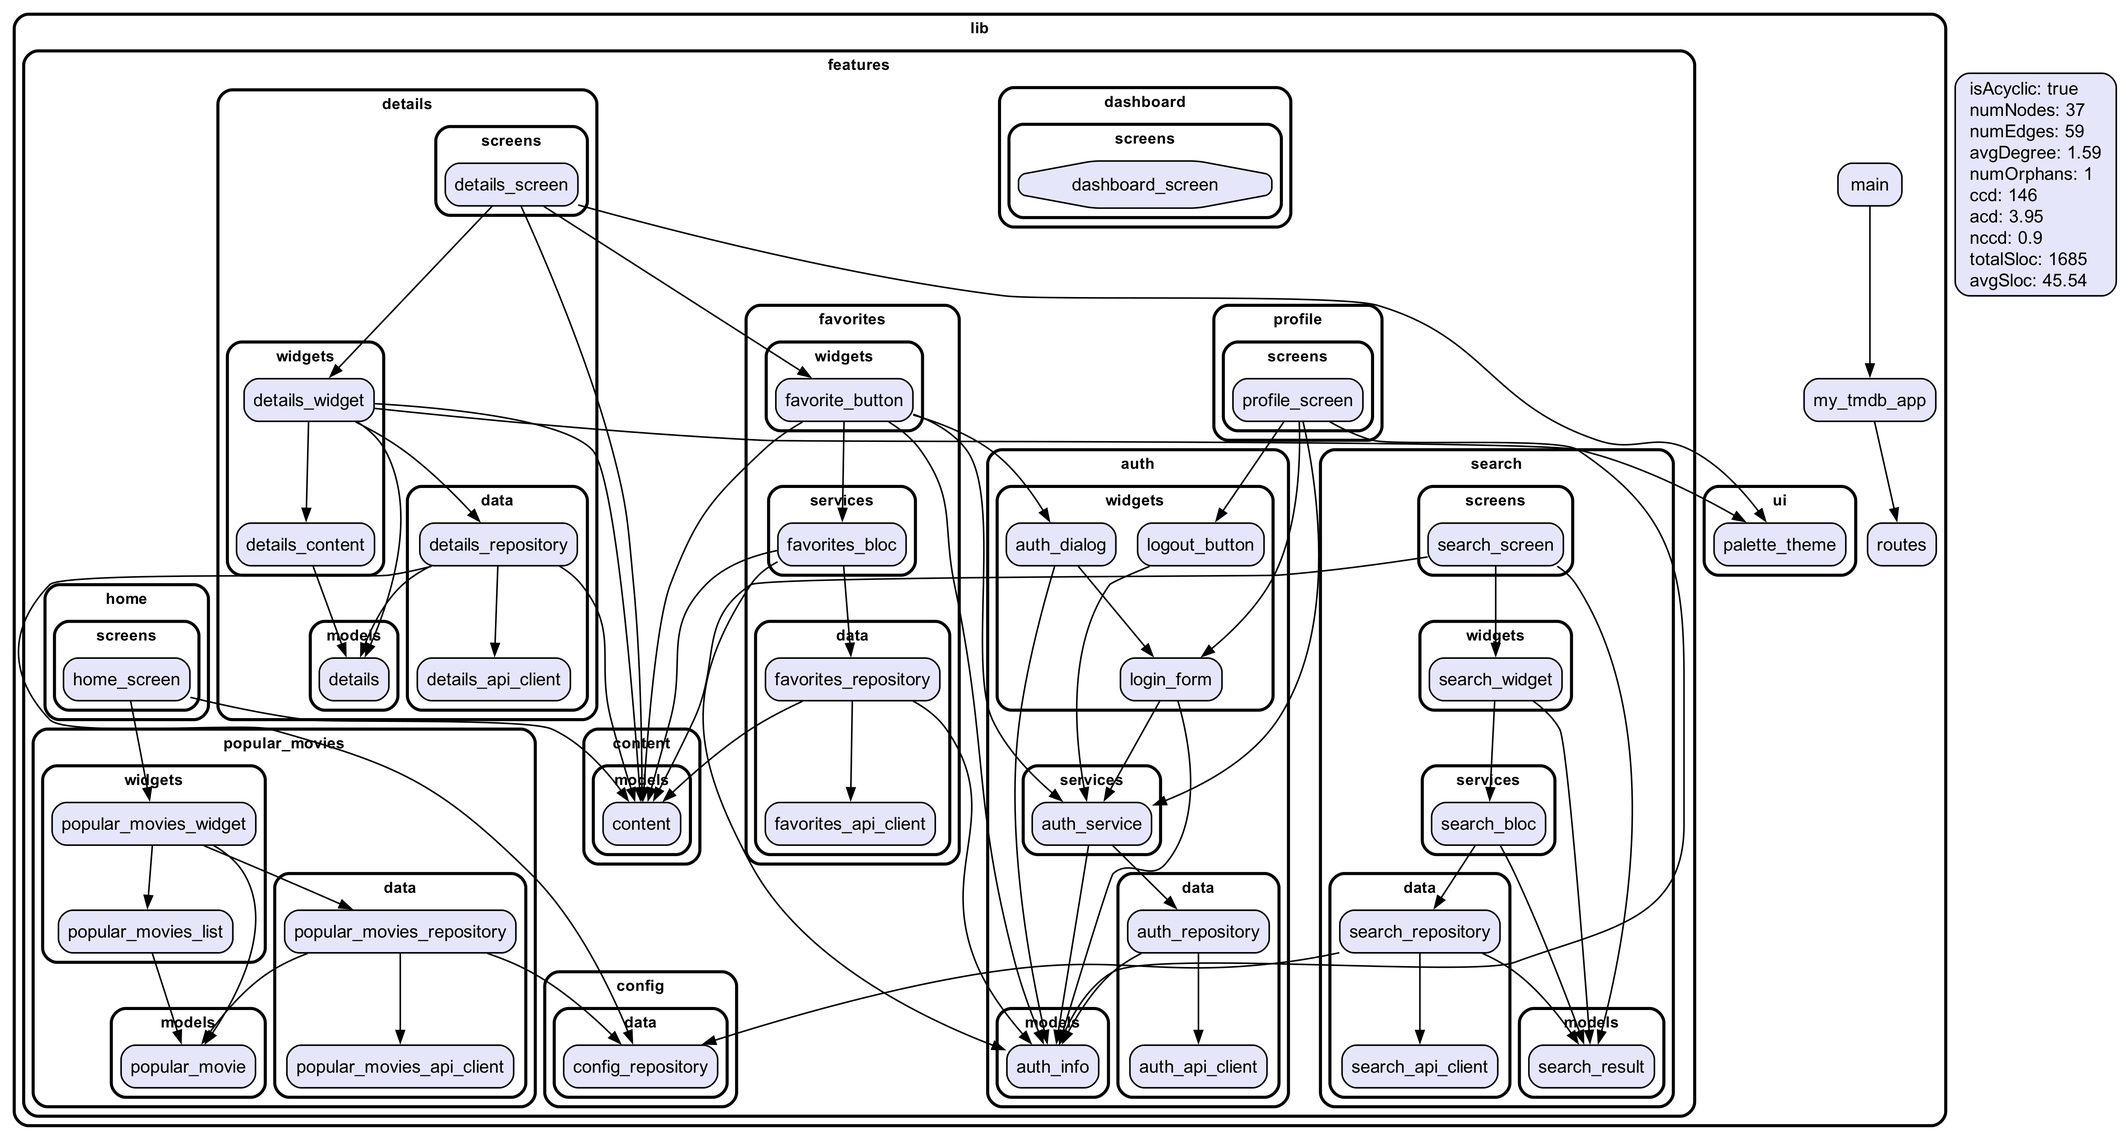
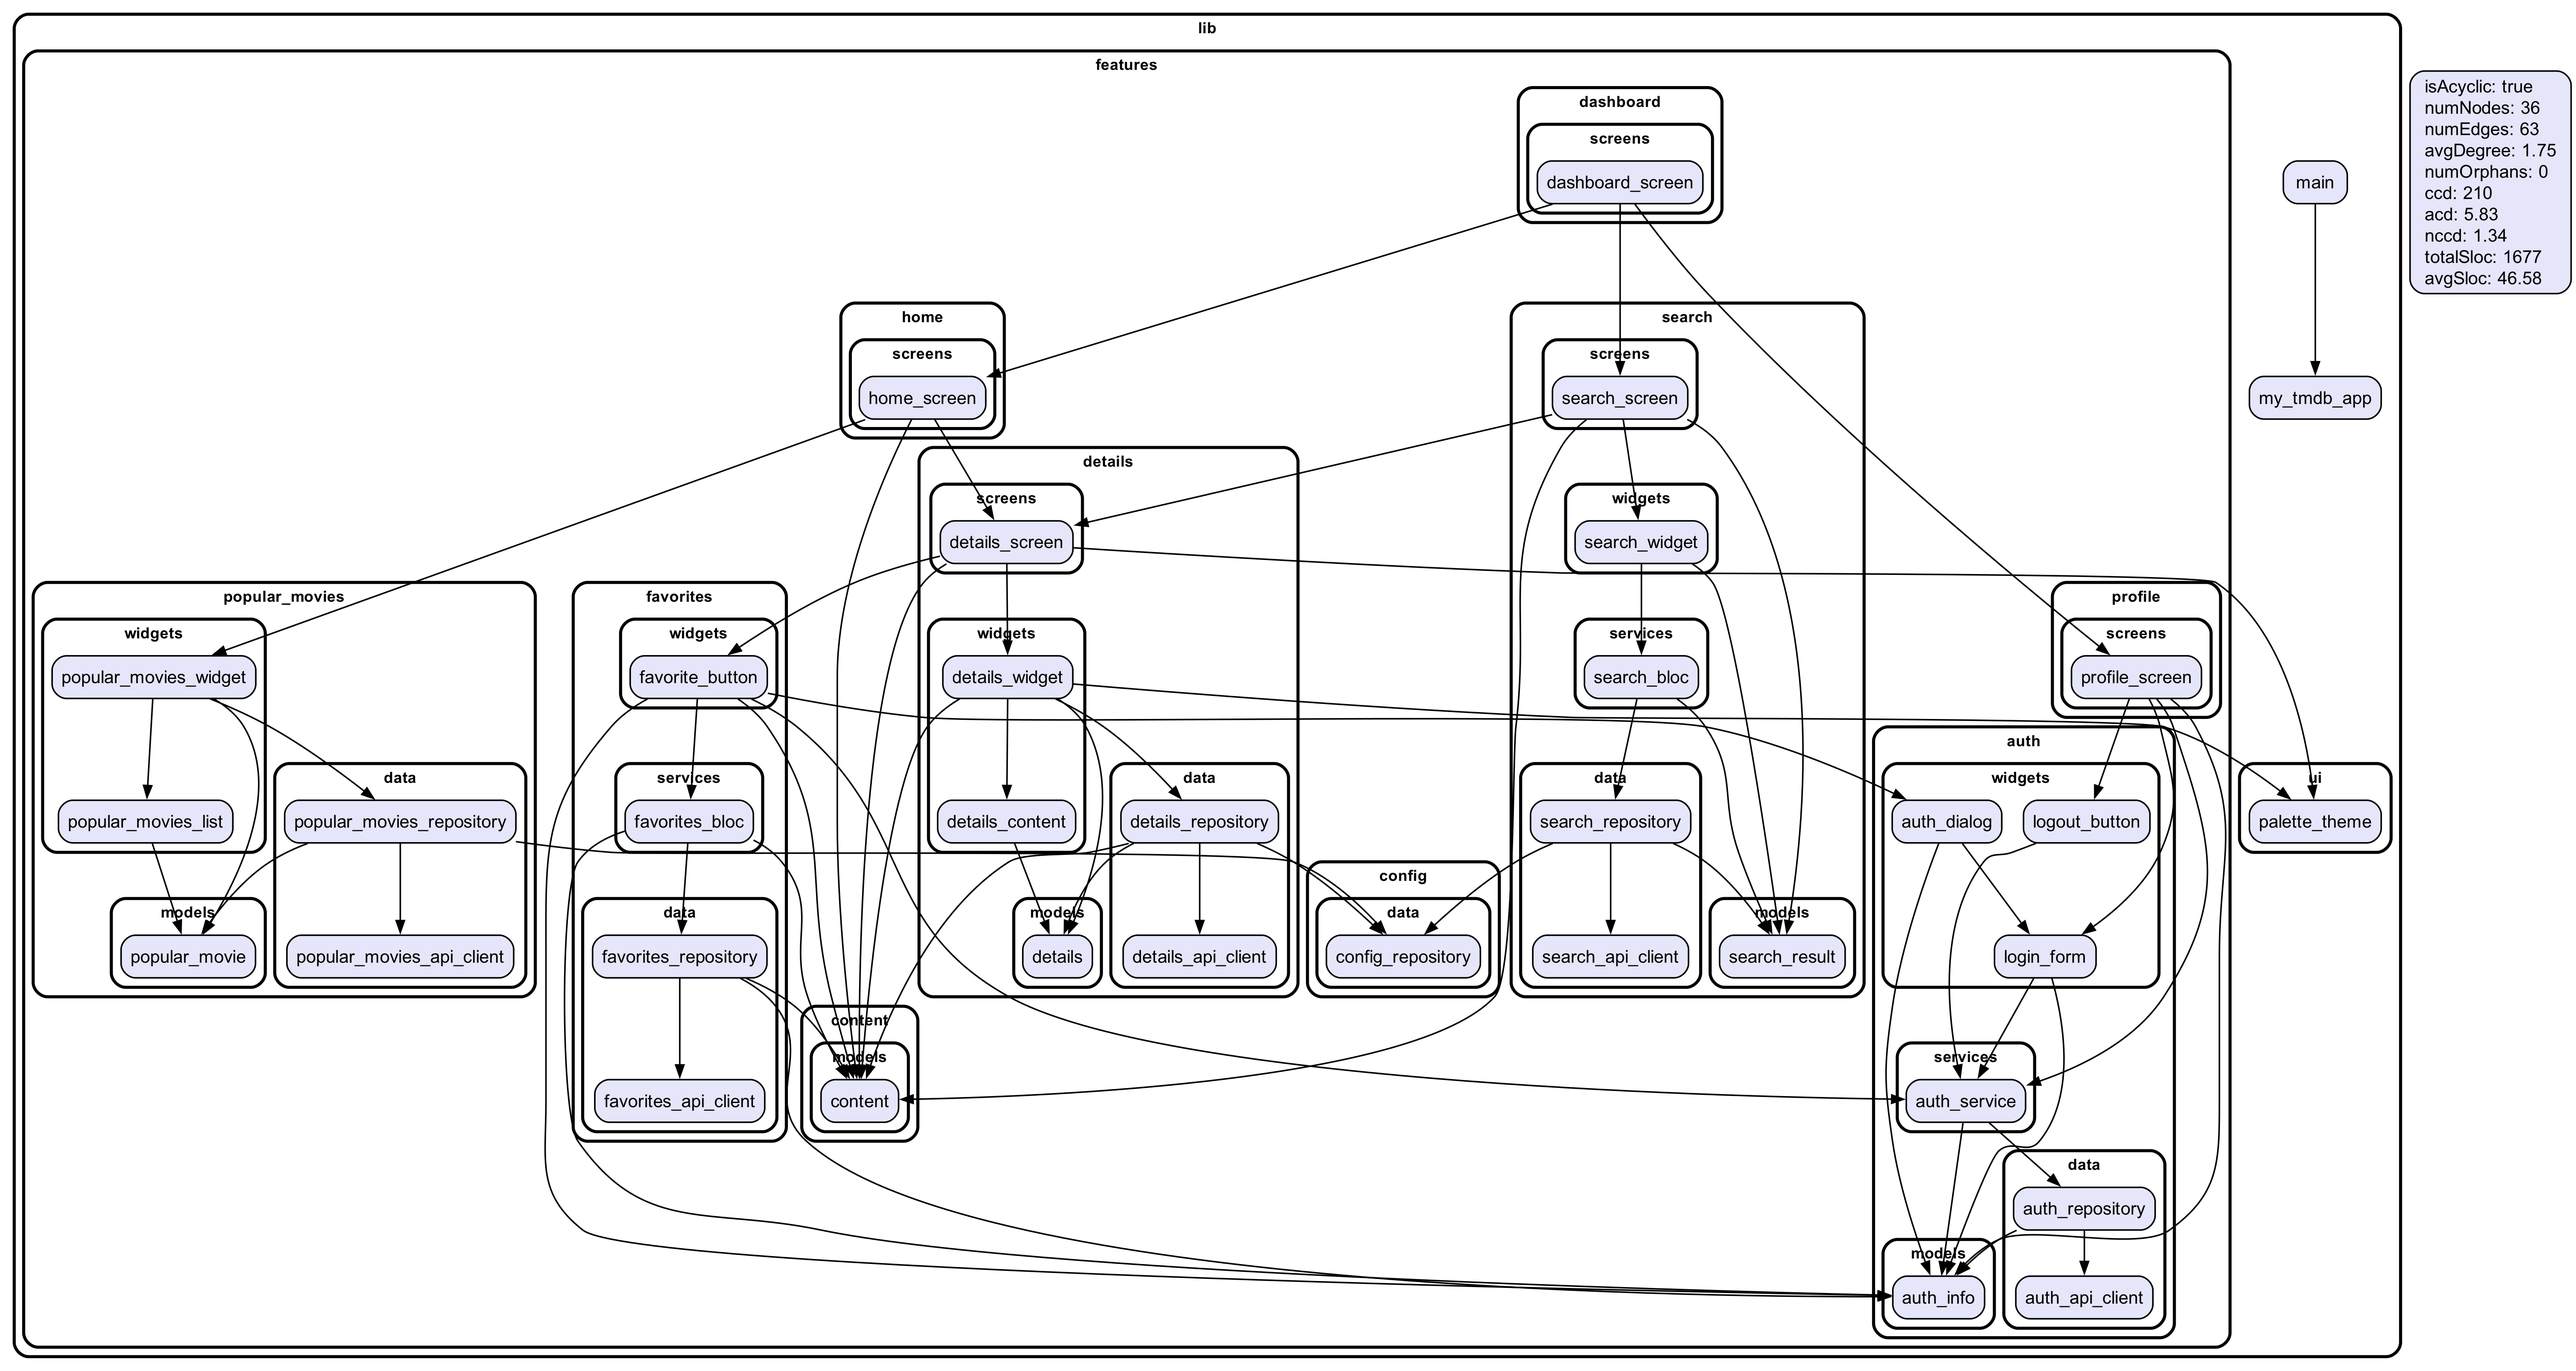
refactor: update screen referencing

Changed region(s): [[0.0, 0.0, 0.9347, 0.9929], [0.8412, 0.031, 1.0, 0.3723]]

diff --git a/lib/features/dashboard/screens/dashboard_screen.dart b/lib/features/dashboard/screens/dashboard_screen.dart
@@ -2,17 +2,22 @@ import 'package:auto_route/auto_route.dart';
 import 'package:flutter/material.dart';
 
 import '../../../routes.gr.dart';
+import '../../home/screens/home_screen.dart';
+import '../../profile/screens/profile_screen.dart';
+import '../../search/screens/search_screen.dart';
 
 @RoutePage()
 class DashboardScreen extends StatelessWidget {
   const DashboardScreen({super.key});
 
+  static const route = DashboardRoute.new;
+
   @override
   Widget build(BuildContext context) => AutoTabsRouter(
-        routes: const [
-          HomeRoute(),
-          SearchRoute(),
-          ProfileRoute(),
+        routes: [
+          HomeScreen.route(),
+          SearchScreen.route(),
+          ProfileScreen.route(),
         ],
         builder: (context, child) {
           final tabsRouter = AutoTabsRouter.of(context);

diff --git a/lib/features/search/screens/search_screen.dart b/lib/features/search/screens/search_screen.dart
@@ -3,6 +3,7 @@ import 'package:flutter/material.dart';
 
 import '../../../routes.gr.dart';
 import '../../content/models/content.dart';
+import '../../details/screens/details_screen.dart';
 import '../models/search_result.dart';
 import '../widgets/search_widget.dart';
 
@@ -10,12 +11,14 @@ import '../widgets/search_widget.dart';
 class SearchScreen extends StatelessWidget {
   const SearchScreen({super.key});
 
+  static const route = SearchRoute.new;
+
   @override
   Widget build(BuildContext context) => Scaffold(
         appBar: AppBar(title: const Text('Search')),
         body: SearchWidget(
           onItemPressed: (item) => context.router.navigate(
-            DetailsRoute(
+            DetailsScreen.route(
               id: ContentId(
                 value: item.id,
                 type: switch (item) {

diff --git a/lib/features/home/screens/home_screen.dart b/lib/features/home/screens/home_screen.dart
@@ -3,18 +3,21 @@ import 'package:flutter/material.dart';
 
 import '../../../routes.gr.dart';
 import '../../content/models/content.dart';
+import '../../details/screens/details_screen.dart';
 import '../../popular_movies/widgets/popular_movies_widget.dart';
 
 @RoutePage()
 class HomeScreen extends StatelessWidget {
   const HomeScreen({super.key});
 
+  static const route = HomeRoute.new;
+
   @override
   Widget build(BuildContext context) => Scaffold(
         appBar: AppBar(title: const Text('MyTMDB')),
         body: PopularMoviesWidget(
           onItemPressed: (movie) => context.router.navigate(
-            DetailsRoute(
+            DetailsScreen.route(
               id: ContentId(type: ContentType.movie, value: movie.id),
               initialTitle: movie.title,
             ),

diff --git a/lib/features/profile/screens/profile_screen.dart b/lib/features/profile/screens/profile_screen.dart
@@ -2,6 +2,7 @@ import 'package:auto_route/auto_route.dart';
 import 'package:flutter/material.dart';
 
 import '../../../di.dart';
+import '../../../routes.gr.dart';
 import '../../auth/models/auth_info.dart';
 import '../../auth/services/auth_service.dart';
 import '../../auth/widgets/login_form.dart';
@@ -10,6 +11,8 @@ import '../../auth/widgets/logout_button.dart';
 @RoutePage()
 class ProfileScreen extends StatelessWidget {
   const ProfileScreen({super.key});
+
+  static const route = ProfileRoute.new;
 
   @override
   Widget build(BuildContext context) => Scaffold(

diff --git a/lib/features/details/screens/details_screen.dart b/lib/features/details/screens/details_screen.dart
@@ -1,6 +1,7 @@
 import 'package:auto_route/auto_route.dart';
 import 'package:flutter/material.dart';
 
+import '../../../routes.gr.dart';
 import '../../../ui/palette_theme.dart';
 import '../../content/models/content.dart';
 import '../../favorites/widgets/favorite_button.dart';
@@ -13,6 +14,8 @@ class DetailsScreen extends StatelessWidget {
     required this.id,
     this.initialTitle = '',
   });
+
+  static const route = DetailsRoute.new;
 
   final ContentId id;
   final String initialTitle;
